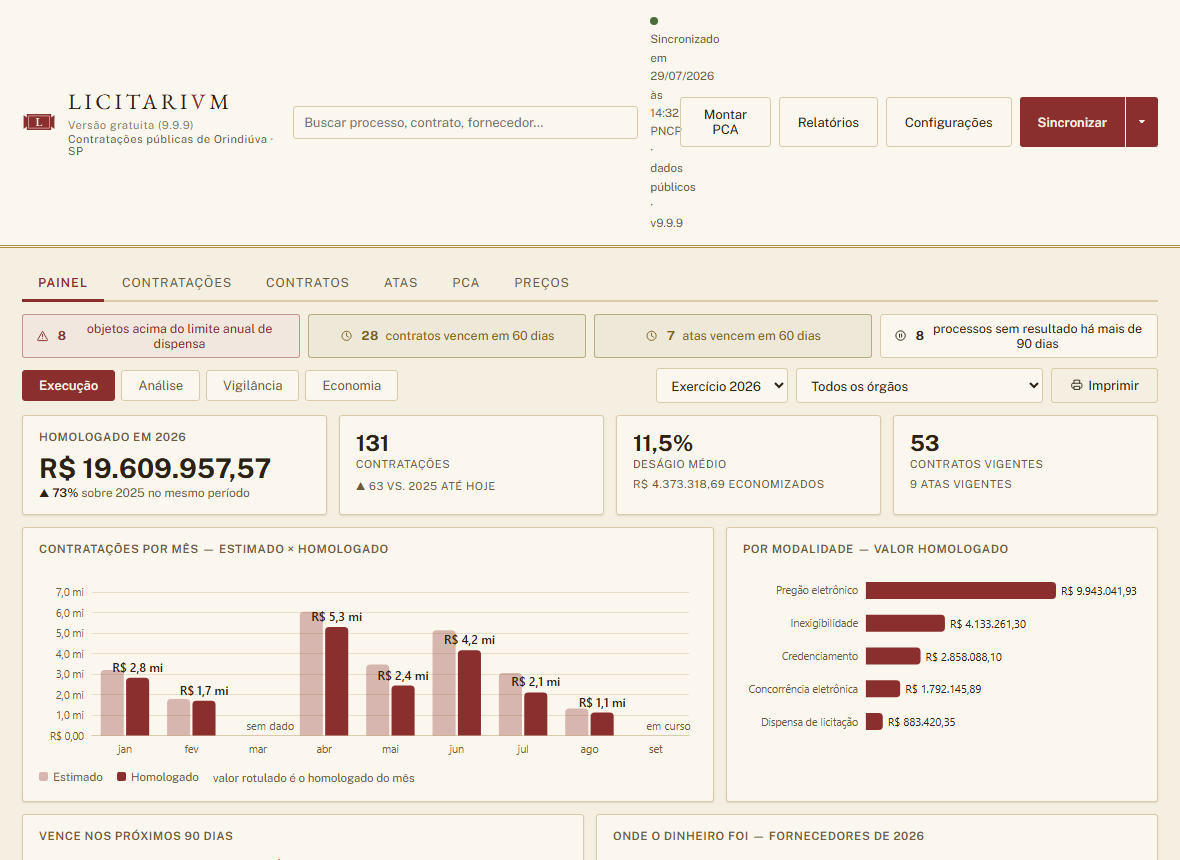
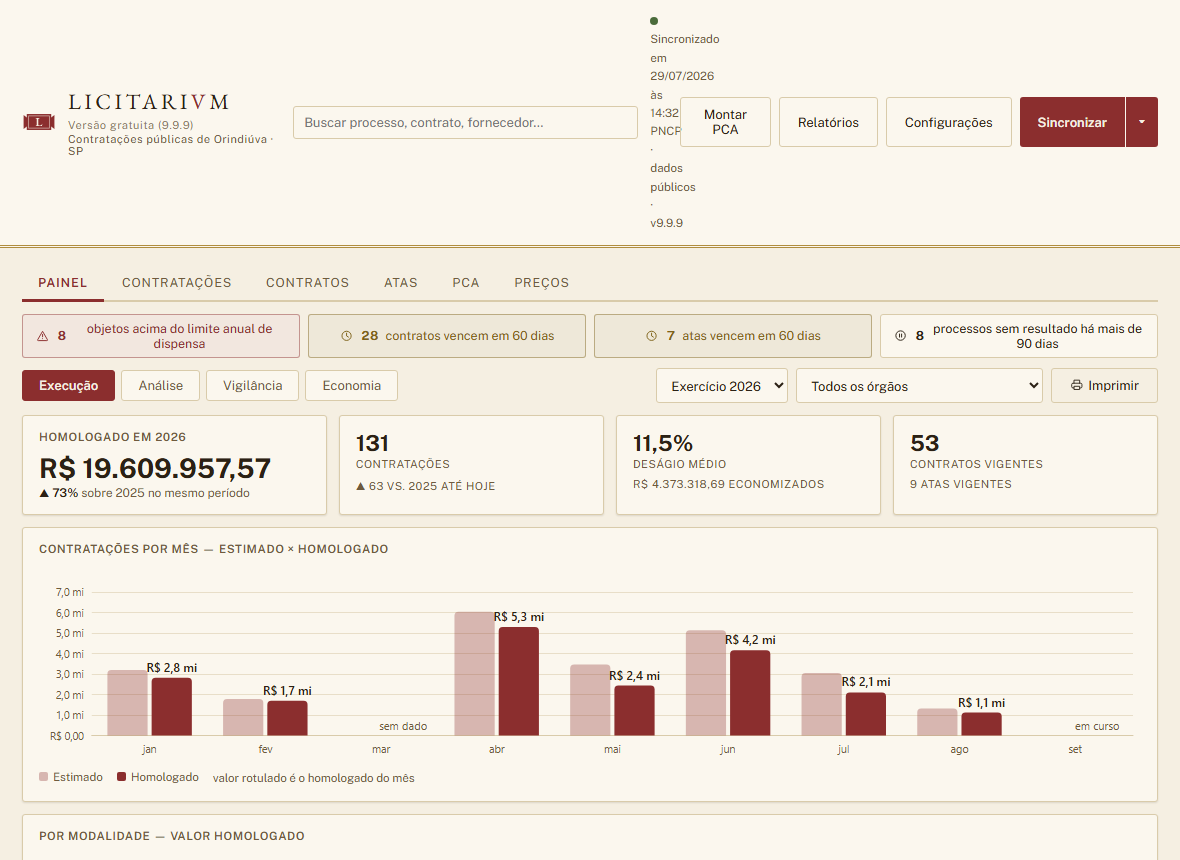
Painel Execução/Análise voltam a ser 1 coluna de verdade (v2.12.2)
O changelog da fase 3 (v2.3.0) dizia "Uma coluna, largura total,
seguindo o mockup 1a", mas o código nunca tirou o grid de 2 colunas
herdado do Painel anterior ao handoff (.faixa.f-21/.f-11). Mockup 1a é
explícito: "cada gráfico e cada tabela ocupa a largura inteira".
Achado pelo usuário comparando um print da tela com a descrição do
mockup que eu tinha acabado de dar.

Mesmo desvio em Análise (fase 4, mockup 3a): "Deságio por modalidade"
pareado com "Concentração de fornecedores" (que nem está no mockup
dessa tela — sobra do Painel anterior). A pedido do usuário, o gráfico
continua na tela, só saiu do par de 2 colunas.

Vigilância e Economia já eram 1 coluna de verdade, conferido sem
alteração. Classes .f-21/.f-11 removidas do CSS (sem uso).

304 pytest + 183 Playwright verdes.

diff --git a/MANUAL.html b/MANUAL.html
@@ -2,11 +2,11 @@
 <html lang="pt-BR">
 <head>
 <meta charset="utf-8">
-<title>Manual Operacional — Licitarium Free v2.12.1</title>
+<title>Manual Operacional — Licitarium Free v2.12.2</title>
 <style>
   @page {
     size: A4; margin: 2cm 1.8cm;
-    @top-center { content: "Licitarium Free v2.12.1 — Manual Operacional"; font-size: 9pt; color: #6f5b3e; }
+    @top-center { content: "Licitarium Free v2.12.2 — Manual Operacional"; font-size: 9pt; color: #6f5b3e; }
     @bottom-right { content: "Página " counter(page) " de " counter(pages);
                     font-size: 9pt; color: #6f5b3e; }
   }
@@ -155,7 +155,7 @@
     <path d="M21.22 61.67Q21.16 61.67 21.12 61.65Q21.09 61.64 21.09 61.61Q21.09 61.58 21.13 61.56Q21.17 61.54 21.23 61.53Q21.35 61.5 21.42 61.41Q21.5 61.32 21.52 61.17Q21.57 60.82 21.61 60.47Q21.64 60.11 21.67 59.79Q21.7 59.47 21.71 59.22Q21.71 59.19 21.71 59.14Q21.71 59.1 21.71 59.06Q21.7 59.01 21.69 58.97Q21.67 58.93 21.62 58.89Q21.55 58.83 21.47 58.81Q21.4 58.78 21.3 58.76Q21.26 58.75 21.23 58.73Q21.2 58.7 21.2 58.67Q21.2 58.63 21.24 58.62Q21.28 58.61 21.34 58.61Q21.4 58.61 21.49 58.61Q21.59 58.62 21.71 58.63Q21.82 58.63 21.93 58.64Q22.03 58.64 22.1 58.64Q22.14 58.64 22.16 58.66Q22.19 58.69 22.2 58.72Q22.22 58.81 22.25 58.89Q22.27 58.98 22.31 59.07L23.02 60.84Q23.03 60.87 23.06 60.88Q23.09 60.88 23.11 60.85L23.93 59.08Q23.96 58.98 23.98 58.88Q24 58.78 24.02 58.71Q24.03 58.65 24.07 58.65H24.25Q24.41 58.64 24.59 58.63Q24.76 58.61 24.85 58.61Q24.89 58.61 24.92 58.62Q24.96 58.63 24.96 58.66Q24.96 58.7 24.93 58.71Q24.9 58.73 24.84 58.76Q24.79 58.77 24.73 58.8Q24.67 58.82 24.62 58.84Q24.55 58.88 24.51 58.93Q24.46 58.98 24.47 59.07Q24.47 59.4 24.48 59.67Q24.5 59.94 24.51 60.19Q24.52 60.43 24.54 60.68Q24.56 60.93 24.57 61.2Q24.58 61.34 24.67 61.41Q24.75 61.49 24.92 61.52Q24.98 61.54 25.02 61.56Q25.05 61.57 25.05 61.61Q25.05 61.64 25.02 61.65Q24.99 61.67 24.93 61.67Q24.82 61.67 24.72 61.66Q24.62 61.65 24.53 61.65Q24.43 61.64 24.33 61.64Q24.24 61.64 24.16 61.65Q24.08 61.65 23.99 61.66Q23.9 61.67 23.78 61.67Q23.73 61.67 23.7 61.65Q23.66 61.64 23.66 61.61Q23.66 61.58 23.7 61.55Q23.73 61.53 23.8 61.52Q23.95 61.5 24 61.43Q24.06 61.36 24.06 61.2Q24.05 60.88 24.04 60.61Q24.04 60.34 24.02 60.07Q24.01 59.8 24 59.51Q23.99 59.46 23.97 59.47Q23.95 59.47 23.93 59.51L22.93 61.66Q22.92 61.7 22.88 61.7Q22.84 61.69 22.83 61.66Q22.63 61.12 22.41 60.59Q22.19 60.07 21.95 59.5Q21.94 59.47 21.91 59.47Q21.89 59.47 21.88 59.51Q21.85 59.8 21.83 60.07Q21.8 60.34 21.79 60.61Q21.78 60.88 21.78 61.17Q21.78 61.3 21.86 61.39Q21.94 61.49 22.09 61.52Q22.16 61.54 22.2 61.55Q22.24 61.57 22.24 61.61Q22.24 61.64 22.2 61.65Q22.16 61.67 22.11 61.67Q21.99 61.67 21.92 61.66Q21.86 61.65 21.81 61.65Q21.75 61.65 21.66 61.65Q21.57 61.65 21.51 61.65Q21.44 61.66 21.37 61.66Q21.3 61.67 21.22 61.67ZM25.84 61.67Q25.78 61.67 25.75 61.65Q25.72 61.64 25.72 61.61Q25.72 61.58 25.75 61.56Q25.79 61.54 25.86 61.53Q25.97 61.5 26.05 61.41Q26.13 61.32 26.15 61.17Q26.19 60.82 26.23 60.47Q26.27 60.11 26.3 59.79Q26.32 59.47 26.33 59.22Q26.34 59.19 26.34 59.14Q26.34 59.1 26.33 59.06Q26.33 59.01 26.31 58.97Q26.3 58.93 26.25 58.89Q26.17 58.83 26.1 58.81Q26.03 58.78 25.93 58.76Q25.88 58.75 25.85 58.73Q25.82 58.7 25.82 58.67Q25.82 58.63 25.86 58.62Q25.91 58.61 25.97 58.61Q26.02 58.61 26.12 58.61Q26.22 58.62 26.33 58.63Q26.45 58.63 26.56 58.64Q26.66 58.64 26.73 58.64Q26.76 58.64 26.79 58.66Q26.82 58.69 26.82 58.72Q26.85 58.81 26.88 58.89Q26.9 58.98 26.93 59.07L27.65 60.84Q27.66 60.87 27.69 60.88Q27.72 60.88 27.73 60.85L28.56 59.08Q28.58 58.98 28.61 58.88Q28.63 58.78 28.64 58.71Q28.66 58.65 28.7 58.65H28.88Q29.04 58.64 29.21 58.63Q29.39 58.61 29.48 58.61Q29.51 58.61 29.55 58.62Q29.59 58.63 29.59 58.66Q29.59 58.7 29.56 58.71Q29.53 58.73 29.47 58.76Q29.42 58.77 29.36 58.8Q29.3 58.82 29.25 58.84Q29.17 58.88 29.13 58.93Q29.09 58.98 29.09 59.07Q29.1 59.4 29.11 59.67Q29.12 59.94 29.14 60.19Q29.15 60.43 29.17 60.68Q29.18 60.93 29.2 61.2Q29.21 61.34 29.3 61.41Q29.38 61.49 29.54 61.52Q29.61 61.54 29.65 61.56Q29.68 61.57 29.68 61.61Q29.68 61.64 29.65 61.65Q29.61 61.67 29.56 61.67Q29.44 61.67 29.34 61.66Q29.25 61.65 29.15 61.65Q29.06 61.64 28.96 61.64Q28.87 61.64 28.79 61.65Q28.71 61.65 28.62 61.66Q28.53 61.67 28.41 61.67Q28.36 61.67 28.32 61.65Q28.29 61.64 28.29 61.61Q28.29 61.58 28.32 61.55Q28.36 61.53 28.43 61.52Q28.57 61.5 28.63 61.43Q28.68 61.36 28.68 61.2Q28.68 60.88 28.67 60.61Q28.66 60.34 28.65 60.07Q28.64 59.8 28.63 59.51Q28.62 59.46 28.6 59.47Q28.58 59.47 28.56 59.51L27.56 61.66Q27.55 61.7 27.51 61.7Q27.47 61.69 27.46 61.66Q27.26 61.12 27.04 60.59Q26.82 60.07 26.58 59.5Q26.57 59.47 26.54 59.47Q26.52 59.47 26.51 59.51Q26.48 59.8 26.45 60.07Q26.43 60.34 26.42 60.61Q26.41 60.88 26.41 61.17Q26.41 61.3 26.49 61.39Q26.57 61.49 26.72 61.52Q26.79 61.54 26.83 61.55Q26.87 61.57 26.87 61.61Q26.87 61.64 26.83 61.65Q26.79 61.67 26.74 61.67Q26.61 61.67 26.55 61.66Q26.48 61.65 26.43 61.65Q26.38 61.65 26.29 61.65Q26.2 61.65 26.13 61.65Q26.07 61.66 26 61.66Q25.93 61.67 25.84 61.67ZM30.37 61.67Q30.31 61.67 30.27 61.66Q30.23 61.65 30.23 61.61Q30.23 61.58 30.27 61.56Q30.31 61.54 30.37 61.51Q30.46 61.49 30.57 61.44Q30.67 61.38 30.79 61.29Q30.9 61.2 31 61.07L31.58 60.35Q31.63 60.28 31.64 60.21Q31.66 60.14 31.59 60.05L30.96 59.16Q30.86 59.03 30.79 58.95Q30.71 58.87 30.63 58.83Q30.56 58.8 30.48 58.77Q30.41 58.75 30.37 58.73Q30.34 58.71 30.34 58.67Q30.34 58.64 30.37 58.63Q30.41 58.62 30.46 58.62Q30.61 58.62 30.81 58.63Q31.01 58.64 31.2 58.64Q31.34 58.64 31.47 58.63Q31.61 58.62 31.7 58.62Q31.75 58.62 31.79 58.64Q31.83 58.65 31.83 58.68Q31.83 58.72 31.79 58.74Q31.75 58.76 31.69 58.78Q31.56 58.81 31.5 58.84Q31.44 58.87 31.44 58.93Q31.44 59 31.56 59.18L31.99 59.77Q32.04 59.84 32.07 59.84Q32.1 59.84 32.14 59.78L32.59 59.18Q32.65 59.1 32.68 59.04Q32.71 58.98 32.71 58.93Q32.71 58.88 32.66 58.84Q32.61 58.8 32.5 58.78Q32.46 58.77 32.4 58.74Q32.35 58.72 32.35 58.68Q32.35 58.65 32.39 58.64Q32.43 58.63 32.49 58.63Q32.56 58.63 32.62 58.63Q32.68 58.63 32.74 58.63Q32.81 58.64 32.88 58.64Q33.02 58.64 33.15 58.62Q33.28 58.61 33.39 58.61Q33.45 58.61 33.49 58.62Q33.53 58.63 33.53 58.67Q33.53 58.7 33.49 58.72Q33.45 58.74 33.38 58.76Q33.26 58.79 33.12 58.93Q32.97 59.06 32.85 59.21L32.28 59.9Q32.22 59.97 32.21 60.01Q32.2 60.04 32.23 60.1L32.97 61.16Q33.06 61.29 33.18 61.39Q33.29 61.48 33.41 61.51Q33.48 61.53 33.52 61.55Q33.57 61.58 33.57 61.61Q33.57 61.64 33.53 61.66Q33.49 61.67 33.44 61.67Q33.33 61.67 33.21 61.66Q33.08 61.66 32.94 61.65Q32.81 61.64 32.69 61.64Q32.55 61.64 32.42 61.65Q32.29 61.65 32.19 61.65Q32.13 61.65 32.09 61.64Q32.05 61.62 32.05 61.59Q32.05 61.56 32.1 61.53Q32.15 61.51 32.2 61.5Q32.28 61.48 32.35 61.43Q32.42 61.38 32.42 61.29Q32.42 61.26 32.41 61.23Q32.4 61.19 32.37 61.16L31.89 60.45Q31.84 60.39 31.81 60.38Q31.78 60.38 31.75 60.43L31.19 61.17Q31.16 61.22 31.14 61.26Q31.13 61.3 31.13 61.33Q31.14 61.39 31.19 61.44Q31.25 61.49 31.34 61.51Q31.41 61.52 31.45 61.54Q31.49 61.57 31.49 61.6Q31.49 61.63 31.45 61.64Q31.42 61.66 31.36 61.66Q31.27 61.66 31.15 61.65Q31.03 61.65 30.92 61.65Q30.77 61.65 30.63 61.66Q30.49 61.67 30.37 61.67ZM34.14 61.67Q34.08 61.67 34.04 61.66Q34 61.65 34 61.61Q34 61.58 34.04 61.56Q34.08 61.54 34.14 61.51Q34.23 61.49 34.34 61.44Q34.44 61.38 34.56 61.29Q34.67 61.2 34.77 61.07L35.35 60.35Q35.4 60.28 35.41 60.21Q35.43 60.14 35.36 60.05L34.73 59.16Q34.63 59.03 34.56 58.95Q34.48 58.87 34.4 58.83Q34.33 58.8 34.25 58.77Q34.18 58.75 34.14 58.73Q34.11 58.71 34.11 58.67Q34.11 58.64 34.14 58.63Q34.18 58.62 34.23 58.62Q34.38 58.62 34.58 58.63Q34.78 58.64 34.97 58.64Q35.11 58.64 35.24 58.63Q35.38 58.62 35.47 58.62Q35.52 58.62 35.56 58.64Q35.6 58.65 35.6 58.68Q35.6 58.72 35.56 58.74Q35.52 58.76 35.46 58.78Q35.33 58.81 35.27 58.84Q35.21 58.87 35.21 58.93Q35.21 59 35.33 59.18L35.76 59.77Q35.81 59.84 35.84 59.84Q35.87 59.84 35.91 59.78L36.36 59.18Q36.42 59.1 36.45 59.04Q36.48 58.98 36.48 58.93Q36.48 58.88 36.43 58.84Q36.38 58.8 36.27 58.78Q36.23 58.77 36.18 58.74Q36.12 58.72 36.12 58.68Q36.12 58.65 36.16 58.64Q36.2 58.63 36.26 58.63Q36.33 58.63 36.39 58.63Q36.45 58.63 36.51 58.63Q36.58 58.64 36.65 58.64Q36.79 58.64 36.92 58.62Q37.05 58.61 37.16 58.61Q37.22 58.61 37.26 58.62Q37.3 58.63 37.3 58.67Q37.3 58.7 37.26 58.72Q37.22 58.74 37.15 58.76Q37.03 58.79 36.89 58.93Q36.74 59.06 36.62 59.21L36.05 59.9Q35.99 59.97 35.98 60.01Q35.97 60.04 36 60.1L36.74 61.16Q36.83 61.29 36.95 61.39Q37.06 61.48 37.18 61.51Q37.25 61.53 37.29 61.55Q37.34 61.58 37.34 61.61Q37.34 61.64 37.3 61.66Q37.26 61.67 37.21 61.67Q37.1 61.67 36.98 61.66Q36.85 61.66 36.71 61.65Q36.58 61.64 36.46 61.64Q36.32 61.64 36.19 61.65Q36.06 61.65 35.96 61.65Q35.9 61.65 35.86 61.64Q35.82 61.62 35.82 61.59Q35.82 61.56 35.87 61.53Q35.92 61.51 35.97 61.5Q36.05 61.48 36.12 61.43Q36.2 61.38 36.2 61.29Q36.2 61.26 36.18 61.23Q36.17 61.19 36.14 61.16L35.66 60.45Q35.61 60.39 35.58 60.38Q35.55 60.38 35.52 60.43L34.96 61.17Q34.93 61.22 34.91 61.26Q34.9 61.3 34.9 61.33Q34.91 61.39 34.96 61.44Q35.02 61.49 35.11 61.51Q35.18 61.52 35.22 61.54Q35.26 61.57 35.26 61.6Q35.26 61.63 35.22 61.64Q35.19 61.66 35.13 61.66Q35.04 61.66 34.92 61.65Q34.8 61.65 34.69 61.65Q34.54 61.65 34.4 61.66Q34.26 61.67 34.14 61.67ZM39.32 61.71Q39.27 61.71 39.25 61.66Q39.23 61.61 39.19 61.51Q39.16 61.41 39.13 61.34L38.26 59.11Q38.21 58.99 38.14 58.9Q38.06 58.81 37.93 58.78Q37.87 58.76 37.83 58.74Q37.79 58.71 37.79 58.68Q37.79 58.65 37.83 58.63Q37.86 58.62 37.92 58.62Q38 58.62 38.1 58.63Q38.2 58.63 38.31 58.63Q38.42 58.64 38.52 58.64Q38.61 58.64 38.72 58.63Q38.82 58.63 38.92 58.63Q39.02 58.62 39.08 58.62Q39.13 58.62 39.17 58.64Q39.21 58.65 39.21 58.68Q39.21 58.72 39.17 58.74Q39.13 58.77 39.07 58.78Q38.93 58.79 38.85 58.84Q38.78 58.88 38.78 58.96Q38.78 59.02 38.79 59.07Q38.81 59.12 38.82 59.15L39.46 60.88Q39.47 60.9 39.48 60.91Q39.5 60.91 39.51 60.87L40.11 59.3Q40.2 59.05 40.13 58.93Q40.06 58.8 39.89 58.78Q39.83 58.77 39.79 58.74Q39.74 58.72 39.74 58.68Q39.74 58.65 39.78 58.64Q39.82 58.63 39.88 58.63Q39.95 58.63 40.02 58.63Q40.09 58.63 40.17 58.63Q40.24 58.64 40.33 58.64Q40.47 58.64 40.61 58.63Q40.75 58.62 40.85 58.62Q40.91 58.62 40.95 58.63Q40.99 58.64 40.99 58.68Q40.99 58.71 40.95 58.73Q40.91 58.75 40.84 58.77Q40.68 58.81 40.58 58.92Q40.47 59.04 40.41 59.19L39.59 61.15Q39.56 61.23 39.52 61.32Q39.49 61.41 39.45 61.5Q39.42 61.59 39.38 61.66Q39.38 61.69 39.36 61.7Q39.34 61.71 39.32 61.71ZM41.59 61.67Q41.54 61.67 41.51 61.65Q41.47 61.64 41.47 61.61Q41.47 61.55 41.61 61.52Q41.78 61.49 41.87 61.42Q41.95 61.35 41.95 61.19V59.1Q41.95 58.94 41.89 58.87Q41.82 58.81 41.64 58.77Q41.51 58.75 41.51 58.68Q41.51 58.65 41.54 58.63Q41.58 58.62 41.63 58.62Q41.75 58.62 41.84 58.63Q41.93 58.63 42.02 58.63Q42.11 58.64 42.21 58.64Q42.31 58.64 42.4 58.63Q42.48 58.63 42.57 58.63Q42.66 58.62 42.78 58.62Q42.83 58.62 42.86 58.63Q42.9 58.65 42.9 58.68Q42.9 58.71 42.86 58.74Q42.83 58.76 42.76 58.77Q42.59 58.81 42.51 58.88Q42.44 58.94 42.44 59.1V61.19Q42.44 61.35 42.53 61.42Q42.61 61.48 42.79 61.52Q42.86 61.54 42.89 61.56Q42.92 61.57 42.92 61.61Q42.92 61.64 42.89 61.65Q42.86 61.67 42.81 61.67Q42.69 61.67 42.59 61.66Q42.5 61.65 42.41 61.65Q42.32 61.64 42.21 61.64Q42.1 61.64 42.01 61.65Q41.91 61.65 41.81 61.66Q41.71 61.67 41.59 61.67Z" fill="var(--text)" opacity=".85"/>
   </svg>
   <h1 class="mark">LICITARI<b>V</b>M</h1>
-  <div class="subtitulo">MANUAL DO USUÁRIO · VERSÃO 2.12.1</div>
+  <div class="subtitulo">MANUAL DO USUÁRIO · VERSÃO 2.12.2</div>
 </header>
 
 <h2>1. O que é o Licitarium</h2>

diff --git a/ui/painel.js b/ui/painel.js
@@ -1092,17 +1092,13 @@ function vistaExecucao(d) {
       <div class="r" style="margin-top:8px">${c.atas_vigentes} atas vigentes</div>
     </div>
   </div>
-  <div class="faixa f-21">
-    ${cartaoGraf(`Contratações por mês — estimado × homologado`, "meses")}
-    ${cartaoGraf("Por modalidade — valor homologado", "modalidades")}
-  </div>
-  <div class="faixa f-11">
-    ${cartao("Vence nos próximos 90 dias", tabelaVencendo(d.execucao.vencendo),
-             `<span class="so-tela">Clicar leva à aba correspondente.</span>`)}
-    ${cartao(`Onde o dinheiro foi — fornecedores de ${ano}`,
-             tabelaFornecedores(d.execucao.fornecedores,
-                                d.execucao.fornecedores_valor_total))}
-  </div>`;
+  ${cartaoGraf(`Contratações por mês — estimado × homologado`, "meses")}
+  ${cartaoGraf("Por modalidade — valor homologado", "modalidades")}
+  ${cartao("Vence nos próximos 90 dias", tabelaVencendo(d.execucao.vencendo),
+           `<span class="so-tela">Clicar leva à aba correspondente.</span>`)}
+  ${cartao(`Onde o dinheiro foi — fornecedores de ${ano}`,
+           tabelaFornecedores(d.execucao.fornecedores,
+                              d.execucao.fornecedores_valor_total))}`;
 }
 
 function tabelaVencendo(itens) {
@@ -1156,13 +1152,11 @@ function vistaAnalise(d) {
   ${cartaoGraf(`Valor homologado acumulado — ${d.ano - 2} a ${d.ano}`, "series",
            `O ano corrente em destaque; os anteriores ficam como contexto — a
             comparação é com o mesmo mês, não com o total do ano.`)}
-  <div class="faixa f-11">
-    ${cartaoGraf("Deságio por modalidade — quanto o certame economizou",
-                 "desagio")}
-    ${cartaoGraf(`Concentração de fornecedores — ${d.ano}`, "concentracao",
-             `A linha tracejada é a distribuição perfeitamente igual — quanto
-              mais a curva se afasta dela, mais concentrado é o mercado.`)}
-  </div>
+  ${cartaoGraf("Deságio por modalidade — quanto o certame economizou",
+               "desagio")}
+  ${cartaoGraf(`Concentração de fornecedores — ${d.ano}`, "concentracao",
+           `A linha tracejada é a distribuição perfeitamente igual — quanto
+            mais a curva se afasta dela, mais concentrado é o mercado.`)}
   ${cartaoGraf("Quando o município compra — processos por mês e modalidade",
                "calor")}
   ${cartao(`Onde concentra — por órgão`, tabelaPorOrgao(a.por_orgao))}`;

diff --git a/tests-e2e/painel.spec.js b/tests-e2e/painel.spec.js
@@ -208,6 +208,24 @@ test("execução mostra hero, colunas mensais e modalidades",
   await expect(v).toContainText("Por modalidade");
 });
 
+// achado do usuário (2026-09-12): o changelog da fase 3 do handoff dizia
+// "uma coluna, largura total, seguindo o mockup 1a", mas o código nunca
+// tirou o grid de 2 colunas herdado do Painel antigo (.faixa.f-21/.f-11)
+// — mockup 1a é explícito: "cada gráfico e cada tabela ocupa a largura
+// inteira". Mesmo desvio existia em Análise (fase 4, mockup 3a) no par
+// Deságio/Concentração — mantendo os dois gráficos, só tirando o par.
+test("execução e análise não têm mais gráficos/tabelas pareados em 2 colunas",
+    async ({ page }) => {
+  await expect(page.locator("#p-execucao .faixa.f-21")).toHaveCount(0);
+  await expect(page.locator("#p-execucao .faixa.f-11")).toHaveCount(0);
+  await page.locator('.subabas button[data-vista="analise"]').click();
+  await expect(page.locator("#p-analise .faixa.f-11")).toHaveCount(0);
+  // os dois gráficos continuam na tela, só que cada um em largura total
+  const v = page.locator("#p-analise");
+  await expect(v).toContainText("Deságio por modalidade");
+  await expect(v).toContainText("Concentração de fornecedores");
+});
+
 test("fornecedor truncado carrega o nome completo no title",
     async ({ page }) => {
   // achado da auditoria de design (2026-08-08): a tabela corta o nome com

diff --git a/ui/estilo.css b/ui/estilo.css
@@ -820,8 +820,6 @@ details.raw pre { background:var(--surface2); border-radius:var(--radius);
    observer dispara e o desenho refaz na medida nova. */
 .faixa > *, .card, .graf, .graf-par, .graf-echart { min-width:0; }
 .f-4 { grid-template-columns:1.15fr 1fr 1fr 1fr; }
-.f-21 { grid-template-columns:1.6fr 1fr; }
-.f-11 { grid-template-columns:1fr 1fr; }
 .f-3 { grid-template-columns:1fr 1fr 1fr; }
 .painel .card { padding:14px 16px; }
 .painel h3 { font-size:11.5px; color:var(--muted); font-weight:600;

diff --git a/licitarium.py b/licitarium.py
@@ -28,7 +28,7 @@ import pca_builder
 import pncp
 import relatorios
 
-VERSAO = "2.12.1"
+VERSAO = "2.12.2"
 # dentro do exe onefile os arquivos ficam na pasta temporária do bundle;
 # _MEIPASS é o caminho oficial para chegar até eles
 DIR_APP = Path(getattr(sys, "_MEIPASS", Path(__file__).resolve().parent))

diff --git a/CHANGELOG.md b/CHANGELOG.md
@@ -1,5 +1,26 @@
 # Changelog
 
+## 2.12.2 — 2026-09-12
+
+**Correção — Painel · Execução e Análise voltam a ser 1 coluna, de verdade**
+
+- O changelog da fase 3 (v2.3.0) dizia "Uma coluna, largura total,
+  seguindo o mockup 1a" — mas isso nunca foi verdade: o código manteve o
+  grid de 2 colunas herdado do Painel anterior ao handoff (`.faixa.f-21`
+  para os gráficos de mês/modalidade, `.faixa.f-11` para as 2 tabelas).
+  O mockup 1a é explícito: "cada gráfico e cada tabela ocupa a largura
+  inteira". Achado pelo usuário comparando um print da tela com o que eu
+  tinha acabado de descrever do mockup.
+- Mesmo desvio existia em Análise (fase 4, mockup 3a), pareando "Deságio
+  por modalidade" com "Concentração de fornecedores" — este último nem
+  está no mockup 3a dessa tela (é sobra do Painel anterior). Por pedido
+  do usuário, o gráfico continua na tela — só saiu do par de 2 colunas,
+  cada um agora em largura total.
+- Vigilância (fase 5) e Economia (fase 6) já eram 1 coluna de verdade;
+  conferido, sem alteração.
+- Classes `.f-21`/`.f-11` removidas do CSS (ficaram sem nenhum uso).
+- 304 pytest + 183 Playwright verdes.
+
 ## 2.12.1 — 2026-09-12
 
 **Correção — 5 achados testando o exe compilado com o acervo real (não o
